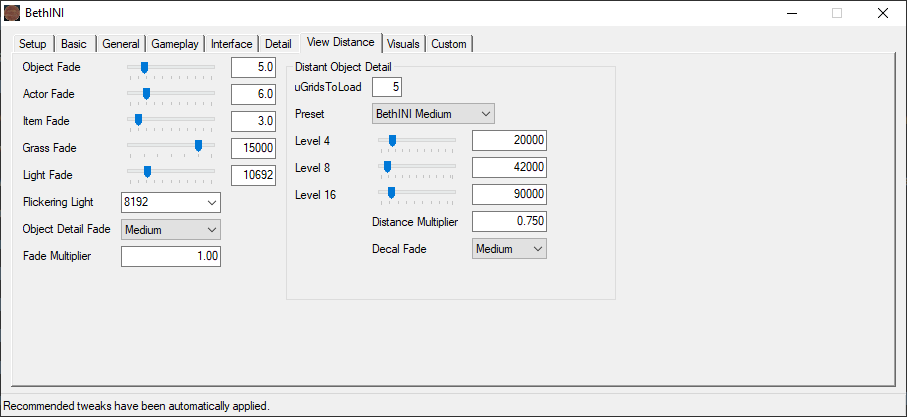
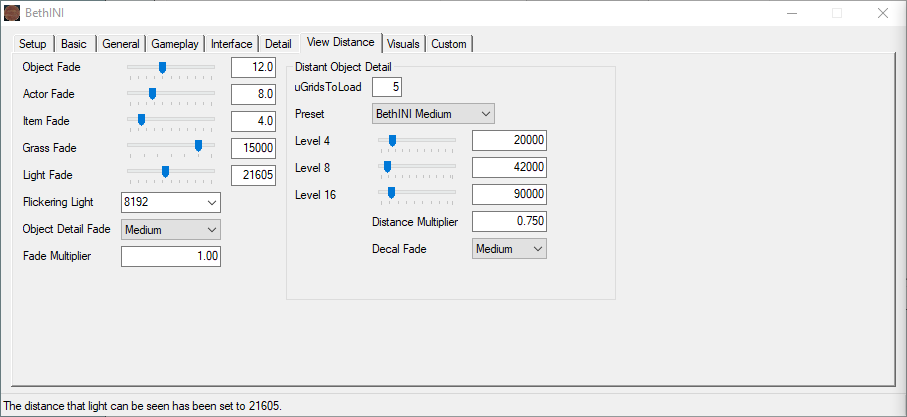
TPF 4.0 Final Updates

diff --git a/content/skyrim-se/appendix/changelog.md b/content/skyrim-se/appendix/changelog.md
@@ -6,6 +6,80 @@ description: >
   For all versions since the Github release (3.2 and later).
 ---
 
+## Release 4.0 Final
+
+> 08/02/2021
+
+After a rather long Beta phase and rather more substantial updates than I had planned to do, we have finally arrived at a point where I consider 4.0 polished enough for a full release.
+
+#### Initial Setup
+
+- **INI Files:** Added note to ignore Skyrim not recognising newer AMD cards.
+- **INI Files:** Increased values in View Distance tab (attempt to fix fade-in of lanterns).
+
+#### Mod Installation
+
+- **Essential Mods:** Replaced the buggy Autorun Console Commands with Umgak's remade Autorun.
+- **Landscape:** Added Blended Roads (version packaged with Cath Landscapes is outdated).
+- **Landscape:** Added instructions to remove a file from Northside to fix moss tiling.
+- **Landscape:** Removed Ashbound (redundant with the latest versions of Better Dynamic Ash).
+- **Interiors:** Added Ennead Banners - RUGNAROK Patch.
+- **Dungeons:** Re-added ENB Particle Lights - Dwemer Lanterns - Ancient Dwemer Metal Patch.
+- **Dungeons:** Re-added Rudy HQ - Bthardamz - Dwemer Ichor Barrel Patch.
+- **Food & Ingredients:** Added Unique Stros M'Kai Rum.
+- **Non-Player Character:** Removed Simple Offence Suppression MCM - Block Friendly Fire.
+- **Improved Vanilla Quests:** Added Radiant Requirements MCM.
+- **Improved Vanilla Quests:** Added Radiant Requirements MCM - TPF Preset.
+- **College of Winterhold:** Added note to Misc College of Winterhold to activate previous mods before the FOMOD.
+- **Balancing:** Added missing download instructions for Faster Mining Plus.
+- **Balancing:** Updated instructions for amidianBorn Armor Variants Lite.
+- **Sounds & Music:** Fixed link for Phoenix - Merged Music Patch.
+
+#### Finalisation
+
+- **First Launch:** Slightly rewrote the last bit to not make it seem as if you were done with the guide at this point.
+
+#### Wabbajack
+
+- Added instructions to re-enable VSYNC for those who need it.
+
+#### Mod Configuration
+
+- Added note about the carriage ride and a potential glitch.
+
+#### Gameplay Guide
+
+- Added section about Radiant Requirements.
+
+#### Appendix
+
+- **Troubleshooting:** Rewrote section on grass shadows or lack thereof.
+- **Troubleshooting:** Added fix for black waterfalls.
+
+#### Conflict Resolution Patch 
+
+- Removed Ashbound as a master.
+- Cleaned unnecessary edits from cell and worldspace records.
+- Resolved conflicts for Radiant Requirements MCM.
+
+#### Wabbajack Installer
+
+- Updated ENBSeries (no file version change)
+- Updated Skyrim Landscape and Water Fixes to 5.9
+- Updated moreHUD to 4.0.0.5Beta
+- Updated DynDOLOD to 2.91
+- Updated Cathedral - 3D Mountain Flowers to 1.8
+- Updated Cathedral Player and NPC Overhaul to 4.3
+- Updated Mysticism - A Magic Overhaul to 1.1.5
+- Updated Adamant - A Perk Overhaul to 4.2.5
+- Updated Adamant - Shrines and Amulets to 4.2.5
+- Updated Blade & Blunt - A Combat Overhaul to 1.2.0
+- Updated Arena - An Encounter Zone Overhaul to 1.1.0
+- Updated Misc Tweaks - Shrines Don't Cure Diseases to 1.6
+- Updated xLODGen to Beta 71
+- Regenerated AllGUD for aMidianBorn Armor Variants Lite 1.0.1
+- Regenerated TexGen, DynDOLOD, and Occlusion
+
 ## Release 4.0 Beta 7
 
 > 29/01/2021

diff --git a/content/skyrim-se/mod-installation/landscape.md b/content/skyrim-se/mod-installation/landscape.md
@@ -53,7 +53,7 @@ description: >
   * `textures\landscape\coastoceanfloor01_n.dds`
   * `textures\plants\`
 
-> Cath Landscapes' **coast textures** unfortunately have extremely bad tiling.**Plants** will be covered by another mod later on.
+> Cath Landscapes' **coast textures** unfortunately have extremely bad tiling. **Plants** will be covered by another mod later on.
 
 #### INI Tweak
 
@@ -91,6 +91,19 @@ description: >
 - Hit **CTRL+S** to save and close the window.
 
 > All grass INI settings are already covered by Cathedral Landscape.
+
+##### [Blended Roads](https://www.nexusmods.com/skyrimspecialedition/mods/8834?tab=files)
+
+#### Download Instructions
+
+- **Main Files:** Blended Roads
+
+> Cathedral Landscapes includes an older version of Blended Roads which has very noticable texture seams on bridges. Therefore we are installing the newer 1.7 of Blended Roads separately to overwrite.
+
+#### FOMOD Instructions
+
+- **Main Files:** REALly Blended Roads
+- **SMIM Comaptibility Patch:** REALly Blended Roads
 
 ##### [Realistic Water Two (RW2)](https://www.nexusmods.com/skyrimspecialedition/mods/2182?tab=files)
 
@@ -158,6 +171,11 @@ description: >
   * Tweaked Wet Rock Meshes
   * Tweaked Rapid Rocks Textures
 
+#### Additional Instructions
+
+- Delete the following file(s) and / or folder(s):
+  - `textures\shadertests\moss.dds`
+
 ##### [Better Dynamic Snow](https://www.nexusmods.com/skyrimspecialedition/mods/9121?tab=files)
 
 #### Download Instructions
@@ -194,12 +212,6 @@ description: >
 #### Download Instructions
 
 * **Main Files:** Better Dynamic Ash SE v2.0
-
-##### [Ashbound - Solstheim Enhanced](https://www.nexusmods.com/skyrimspecialedition/mods/14663?tab=files)
-
-#### Download Instructions
-
-* **Main Files:** Ashbound 1.1
 
 ##### [Rally's Solstheim Landscapes](https://www.nexusmods.com/skyrimspecialedition/mods/35590?tab=files)
 

diff --git a/content/skyrim-se/mod-configuration/_index.md b/content/skyrim-se/mod-configuration/_index.md
@@ -6,6 +6,8 @@ description: >
   Recommended MCM instructions.
 ---
 
+> **TPF does not use any alternate start mod.** That means that you have to go through the usual carriage ride and intro sequence after starting a new game from the main menu. The glitch present in 4.0 Beta 7 has since been fixed but very rarely users reported other problems with the carriage ride that could usually be fixed with a restart. If you do encounter issues with the intro quest, please report them on Discord.
+
 ## A Matter of Time
 
 You can either:
@@ -38,9 +40,10 @@ You can either:
 
 ## moreHUD
 
-- In the **Enemy's Level** tab, uncheck the following options:
-  - Show Magicka Meter
-  - Show Stamina Meter
+In the **Enemy's Level** tab, uncheck the following options:
+
+- Show Magicka Meter
+- Show Stamina Meter
 
 > These only clutter up the interface in my opinion. You can also disable Health numbers if you like.
 
@@ -48,9 +51,10 @@ You can either:
 
 ## Realistic Water Two
 
-* Under **Mod Options** >> **Blacksmith Forge Water**, toggle the following options:
-  * Kynesgrove
-  * Rorikstead
+Under **Mod Options** >> **Blacksmith Forge Water**, toggle the following options:
+
+* Kynesgrove
+* Rorikstead
 
 ![Realistic Water 2 MCM](/Pictures/skyrim-se/new-game/rwt-mcm.jpg)
 
@@ -70,7 +74,7 @@ To apply the custom preset, do the following:
 
 - Go to the **Extra Options** tab in the Timing Is Everything MCM.
 - Click **Load Preset** and confirm.
-- You will be asked not the leave the MCM before the process is complete. Confirm again.
+- You will be asked not to leave the MCM before the process is complete. Confirm again.
 - All values will be updated. Click **Okay** to close the final message box.
 
 ![TIE MCM](/Pictures/skyrim-se/new-game/tie-mcm.jpg)

diff --git a/content/skyrim-se/finalisation/first-launch.md b/content/skyrim-se/finalisation/first-launch.md
@@ -3,7 +3,7 @@ title: "First Launch"
 weight: 7
 type: docs
 description: >
-  Ingame testing and starting a new game.
+  Ingame testing.
 ---
 
 ## A Test Game
@@ -58,16 +58,4 @@ I recommend you spend at least 10 to 20 minutes ingame. Enjoy the improved graph
 
 If you encounter any bugs, performance lower than expected, or even crashes, please join us on Discord and provide us with detailed information about the problem. Any outstanding issues should be solved before diving back into Skyrim for a proper playthrough.
 
-## A New Playthrough
-
-**Congratulations, you have completed The Phoenix Flavour!**
-
-I hope you had a great time, found the instructions easy to follow, and didn’t run into any frustrating issues. Your game is now thoroughly overhauled and you learned plenty about modding over the course of the guide.
-
-However, we are not quite done.
-
-You can now start your own playthrough by running the SKSE through Mod Organizer 2 as usual and selecting **NEW** in the main menu to start the vanilla intro. After completing the intro quest (after leaving Helgen), continue with the [Mod Configuration](/skyrim-se/new-game/mod-configuration/) page. **This is mandatory.**
-
-Also feel free to consult the [Gameplay Guide](/skyrim-se/new-game/gameplay-guide/) for additional information on how to play with the TPF setup.
-
-**Happy ~~modding~~ playing!**
+#### Continue with the [Mod Configuration](/skyrim-se/mod-configuration/) page.

diff --git a/content/skyrim-se/mod-installation/balancing.md b/content/skyrim-se/mod-installation/balancing.md
@@ -59,6 +59,7 @@ description: >
 #### Download Instructions
 
 - **Main Files:** FMPSE 3-3 Script (v2.0)
+- **Main Files:** Stalhrim (Vanilla Speed) ESP
 
 ##### [Craftable Torches](https://www.nexusmods.com/skyrimspecialedition/mods/5013?tab=files)
 
@@ -90,24 +91,19 @@ description: >
 
 - **Main Files:** Tweaks for WACCF and ACE
 
-##### [aMidianBorn Armor Variants Lite](https://mega.nz/file/5VViBThR#RhdtoTIzK9plp1A91ty0C6ZWTzW_aZ1iE6qmKnd1nIU)
+##### [aMidianBorn Armor Variants Lite](https://www.nexusmods.com/skyrimspecialedition/mods/45160?tab=files)
 
 #### Download Instructions
 
 - **Main Files:** aMidianBorn Armor Variants Lite
 
-#### Installation Instructions
-
-- Download the archive from MEGA.
-- Move the archive to `Your Modding Folder\ARCHIVE\MO2 Downloads`.
-- Back in Mod Organizer 2, press F5 to refresh.
-- The mod will show up in the **Downloads** tab as usual.
-
 #### FOMOD Instructions
 
 - **Patches:**
-  - Weapons Armor Clothing and Clutter Fixes Patch
   - Enchanting Adjustments Patch
+  - Finding Velehk Sain Patch
+  - Reliquary of Myth Patch
+  - Weapons Armor Clothing and Clutter Fixes Patch
 
 ##### [Morrowloot Miscellania - Unleveled Uniques](https://www.nexusmods.com/skyrimspecialedition/mods/27094?tab=files)
 

diff --git a/content/skyrim-se/gameplay-guide/_index.md b/content/skyrim-se/gameplay-guide/_index.md
@@ -165,6 +165,16 @@ With Irondusk's mod Saddlebags, you will be able to store up to 500 weight units
 
 The mod also adds a Horse Call power which you can use to teleport your last ridden horse to your location.
 
+## Vanilla Quests
+
+The guide does not feature any new quests at the moment but many vanilla quests were changed in various ways, often pertaining to the requirements that need to be fulfilled in order to start or complete them.
+
+**Radiant Requirements**
+
+Parapets' mod Radiant Requirements adds an MCM which allows you to tweak level requirements for various types of radiant quests. Without these requirements, you may ask for a quest from the Companions early in the game and be given the task to clear out a vampire lair. Unfortunately, our encounter zone overhaul Arena increases the min levels for vampire lairs to 25 which can be impossible to complete for a low level Companion recruit.
+
+In Radiant Requirements, the required level for each encounter type was set one below their respective Arena encounter zone min level to avoid being underleveled for radiant quests.
+
 ## Shrines and Divines
 
 - [Adamantine Addons - Shrines and Amulets](https://www.nexusmods.com/skyrimspecialedition/mods/30191)

diff --git a/content/skyrim-se/mod-installation/non-player-characters.md b/content/skyrim-se/mod-installation/non-player-characters.md
@@ -18,6 +18,12 @@ description: >
 
 - **Main Files:** AI Overhaul 1.6.4
 
+##### [Simple Offence Suppression](https://www.nexusmods.com/skyrimspecialedition/mods/41764?tab=files)
+
+#### Download Instructions
+
+- **Main File:** Simple Offence Suppression
+
 ##### [Tavern AI Fix](https://www.nexusmods.com/skyrimspecialedition/mods/23107?tab=files)
 
 #### Download Instructions
@@ -35,18 +41,6 @@ The mod comes with two console commands to customise it. One will prevent innkee
 * Press CTRL+S to save and close the window.
 
 The commands will now be executed automatically when you start a new game or load your save.
-
-##### [Simple Offence Suppression](https://www.nexusmods.com/skyrimspecialedition/mods/41764?tab=files)
-
-#### Download Instructions
-
-- **Main File:** Simple Offence Suppression
-
-##### [Simple Offence Suppression MCM - Block Friendly Fire](https://www.nexusmods.com/skyrimspecialedition/mods/41774?tab=files)
-
-#### Download Instructions
-
-- **Main Files:** Simple Offence Suppression MCM - Block Friendly Fire
 
 ##### [Guard Dialogue Overhaul (GDO)](https://www.nexusmods.com/skyrimspecialedition/mods/22075?tab=files)
 

diff --git a/content/skyrim-se/appendix/troubleshooting.md b/content/skyrim-se/appendix/troubleshooting.md
@@ -85,6 +85,12 @@ Check [issue report #41](https://github.com/foreverphoenix/the-phoenix-flavour/i
 
 ## Grass looks strangely dull and flat.
 
-Without ENB, grass will unfortunately look much worse. If you are running an ENB preset, make sure **Ambient Occlusion** and **Detailed Shadows** are enabled to give grass some much needed depth. Be aware that both of those features are fairly demanding and often disabled in Lite presets for a reason.
+By default, **Detailed Shadows** are disabled in Serio's ENB. This is my personal preference as I don't like how they look with grass. However, some may prefer the shadow effect on grass to make it look less flat, especially in the case of the Reach grass. Open the ENB GUI (F11) and check **EnableDetailedShadows**. Note that the effect comes with a performance hit.
 
 ![Example](https://cdn.discordapp.com/attachments/521296280165679119/702036429341065286/enb2020_4_21_00_57_56.jpg)
+
+## Waterfalls appear black.
+
+This happens when playing without ENB. Disable "Bright Waterfall Fix for ENB" under the **LANDSCAPE** separator.
+
+![Black Waterfall](/Pictures/skyrim-se/appendix/black-waterfall.jpg)

diff --git a/content/skyrim-se/wabbajack/_index.md b/content/skyrim-se/wabbajack/_index.md
@@ -114,6 +114,15 @@ By default, the game is set to run at 1440p which is very demanding. You should 
 - [How to change the game's resolution](/skyrim-se/guide-resources/various-tutorials/#how-to-change-the-games-resolution)
 - [How to play below your monitor's native resolution](/skyrim-se/appendix/troubleshooting/#skyrim-launches-in-a-small-window)
 
+### Enable VSYNC
+
+VSYNC is disabled by default as I am playing on a GSYNC monitor. If you do not have either FreeSync or GSYNC, you need to re-enable VSYNC in SSE Display Fixes, otherwise you will encounter screentearing.
+
+- Double-click **SSE Display Tweaks** in Mod Organizer 2 (below the ESSENTIAL MODS separator near the top).
+- Switch to the **INI Files** tab and select the **SSEDisplayTweaks.ini**.
+- Scroll to **Line 71** and change `EnableVSync=` to `true`.
+- Close the window and click **Yes** to save your change.
+
 ## Playing TPF
 
 - Open your installation folder `C:\The Phoenix Flavour\` and double-click the **ModOrganizer.exe** inside.

diff --git a/content/skyrim-se/mod-installation/improved-vanilla-quests.md b/content/skyrim-se/mod-installation/improved-vanilla-quests.md
@@ -24,6 +24,26 @@ description: >
 
 - **Main Files:** The Choice is Yours
 
+##### [Radiant Requirements MCM](https://www.nexusmods.com/skyrimspecialedition/mods/45427?tab=files)
+
+#### Download Instructions
+
+- **Main Files:** Radiant Requirements
+
+##### [Radiant Requirements MCM - TPF Preset](https://www.nexusmods.com/skyrimspecialedition/mods/26092?tab=files)
+
+#### Download Instructions
+
+- **Main Files:** Radiant Requirements MCM - TPF Preset
+
+#### Additional Instructions
+
+- Disregard the warning when installing the mod and simply click **OK**.
+- Click **Ignore** when MO2 warns you again.
+- After installing the mod, right-click it and select **Ignore missing data**.
+
+> The "missing data" is not an issue. MO2 does not recognise the JSON file as a functioning mod but it does work as intended and automatically applies.
+
 ##### [Miscellaneous Quests … As Miscellaneous Quests (MQM)](https://www.nexusmods.com/skyrimspecialedition/mods/11626?tab=files)
 
 #### Download Instructions

diff --git a/content/skyrim-se/mod-installation/dungeons.md b/content/skyrim-se/mod-installation/dungeons.md
@@ -165,11 +165,23 @@ One of the meshes in Underground is in the wrong folder and will cause the mud o
 
 * **Main Files:** ENB-ParticleLights-DwemerLanterns-1-02
 
+##### [ENB Particle Lights - Dwemer Lanterns - Ancient Dwemer Metal Patch](https://www.nexusmods.com/skyrimspecialedition/mods/9951?tab=files)
+
+#### Download Instructions
+
+- **Main Files:** ENB Particle Lights - Dwemer Lanterns - Ancient Dwemer Metal Patch
+
 ##### [Rudy HQ - More Lights for ENB - Bthardamz](https://www.nexusmods.com/skyrimspecialedition/mods/22703?tab=files)
 
 #### Download Instructions
 
 * **Main Files:** Rudy HQ - More Lights for ENB SE - Bthardamz
+
+##### [Rudy HQ - Bthardamz - Dwemer Ichor Barrel Patch](https://www.nexusmods.com/skyrimspecialedition/mods/9951?tab=files)
+
+#### Download Instructions
+
+- **Main Files:** Rudy HQ - Bthardamz - Dwemer Ichor Barrel Patch
 
 ##### [HD Lava for Dawnguard](https://www.nexusmods.com/skyrimspecialedition/mods/7285?tab=files)
 

diff --git a/content/skyrim-se/initial-setup/ini-files.md b/content/skyrim-se/initial-setup/ini-files.md
@@ -28,6 +28,8 @@ Continue with regenerating the INI files from scratch:
 * A window will come up, informing you that Skyrim SE will now be configured based on your hardware.
 * Click **OK** twice to confirm and hit **Exit** once it’s done.
 
+> If Skyrim is unable to detect your hardware, it's likely because you have a newer AMD card. You can safely ignore this.
+ 
 ![Regenerating INIs](/Pictures/skyrim-se/initial-setup/regenerating-inis.png)
 
 ## Install BethINI
@@ -101,7 +103,11 @@ Continue with the sixth tab, **Detail**.
 
 Continue with the seventh tab, **View Distance**.
 
-- **Grass Fade:** Set to `15000` or higher.
+- **Object Fade:** Set to `12.0`.
+- **Actor Fade:** Set to `8.0`.
+- **Item Fade:** Set to `4.0`.
+- **Grass Fade:** Set to `15000`.
+- **Light Fade:** Set to `21605`.
 
 ![BethINI View Distance](/Pictures/skyrim-se/initial-setup/bethini-view-distance.png)
 
